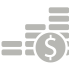
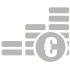
- Changed semantic for refresh click (and Cmd+R menu command): refreshes now all accounts. Hold Alt together with a click to refresh only the selected account. - Removed obsolete images. - Updated overview images to use € instead $.

diff --git a/Source/BankingController.m b/Source/BankingController.m
@@ -746,31 +746,37 @@ static BankingController *bankinControllerInstance;
 
 - (IBAction)enqueueRequest: (id)sender
 {
+    if ((NSEvent.modifierFlags & NSAlternateKeyMask) != 0) {
+        [self synchronizeAccount: self.currentSelection];
+    } else {
+        [self synchronizeAccount: Category.bankRoot];
+    }
+}
+
+- (void)synchronizeAccount: (Category *)category
+{
     LOG_ENTER;
 
     NSMutableArray *selectedAccounts = [NSMutableArray arrayWithCapacity: 10];
     NSArray        *selectedNodes = nil;
-    Category       *cat;
     NSError        *error = nil;
 
-    cat = [self currentSelection];
-    if (cat == nil) {
+    if (category == nil) {
         return;
     }
 
     [self startRefreshAnimation];
 
-    // one bank account selected
-    if (cat.accountNumber != nil) {
-        [selectedAccounts addObject: cat];
+    if (category.accountNumber != nil) {
+        // A bank account.
+        [selectedAccounts addObject: category];
     } else {
-        // a node was selected
         NSEntityDescription *entityDescription = [NSEntityDescription entityForName: @"BankAccount" inManagedObjectContext: self.managedObjectContext];
         NSFetchRequest      *request = [[NSFetchRequest alloc] init];
         [request setEntity: entityDescription];
-        if (cat.parent == nil) {
-            // root was selected
-            NSPredicate *predicate = [NSPredicate predicateWithFormat: @"parent == %@", cat];
+        if (category.parent == nil) {
+            // Bank root. Retrieve all bank accounts under it.
+            NSPredicate *predicate = [NSPredicate predicateWithFormat: @"parent == %@", category];
             [request setPredicate: predicate];
             selectedNodes = [self.managedObjectContext executeFetchRequest: request error: &error];
             if (error) {
@@ -779,12 +785,12 @@ static BankingController *bankinControllerInstance;
                 return;
             }
         } else {
-            // a node was selected
-            selectedNodes = @[cat];
+            // One of the bank nodes.
+            selectedNodes = @[category];
         }
-        // now select accounts from nodes
-        BankAccount *account;
-        for (account in selectedNodes) {
+
+        // Get the accounts from each node.
+        for (BankAccount *account in selectedNodes) {
             NSArray     *result;
             NSPredicate *predicate = [NSPredicate predicateWithFormat: @"parent == %@ AND noAutomaticQuery == 0", account];
             [request setPredicate: predicate];
@@ -797,19 +803,20 @@ static BankingController *bankinControllerInstance;
             [selectedAccounts addObjectsFromArray: result];
         }
     }
+
     if ([selectedAccounts count] == 0) {
         return;
     }
 
-    // check if at least one Account is assigned to a user
-    NSUInteger  nInactive = 0;
-    BankAccount *account;
-    for (account in selectedAccounts) {
-        if (account.userId == nil && ([account.isManual boolValue] == NO)) {
+    // Check that at least one account is assigned to a user.
+    NSUInteger nInactive = 0;
+    for (BankAccount *account in selectedAccounts) {
+        if (account.userId == nil && (!account.isManual.boolValue)) {
             nInactive++;
         }
     }
-    if (nInactive == [selectedAccounts count]) {
+
+    if (nInactive == selectedAccounts.count) {
         NSRunAlertPanel(NSLocalizedString(@"AP220", nil),
                         NSLocalizedString(@"AP215", nil),
                         NSLocalizedString(@"AP1", nil),
@@ -817,6 +824,7 @@ static BankingController *bankinControllerInstance;
                         );
         return;
     }
+
     if (nInactive > 0) {
         NSRunAlertPanel(NSLocalizedString(@"AP216", nil),
                         NSLocalizedString(@"AP217", nil),
@@ -827,10 +835,9 @@ static BankingController *bankinControllerInstance;
                         );
     }
 
-    // now selectedAccounts has all selected Bank Accounts
-    NSMutableArray *resultList = [NSMutableArray arrayWithCapacity: [selectedAccounts count]];
-    for (account in selectedAccounts) {
-        if (account.userId) {
+    NSMutableArray *resultList = [NSMutableArray arrayWithCapacity: selectedAccounts.count];
+    for (BankAccount *account in selectedAccounts) {
+        if (account.userId != nil) {
             BankQueryResult *result = [[BankQueryResult alloc] init];
             result.accountNumber = account.accountNumber;
             result.accountSubnumber = account.accountSuffix;
@@ -840,7 +847,8 @@ static BankingController *bankinControllerInstance;
             [resultList addObject: result];
         }
     }
-    // show log if wanted
+
+    // Show log if wanted.
     NSUserDefaults *defaults = [NSUserDefaults standardUserDefaults];
     BOOL           showLog = [defaults boolForKey: @"logForBankQuery"];
     if (showLog) {
@@ -848,7 +856,7 @@ static BankingController *bankinControllerInstance;
         [[logController window] orderFront: self];
     }
 
-    // prepare UI
+    // Prepare UI.
     [[[mainWindow contentView] viewWithTag: 100] setEnabled: NO];
     StatusBarController *sc = [StatusBarController controller];
     [sc startSpinning];
